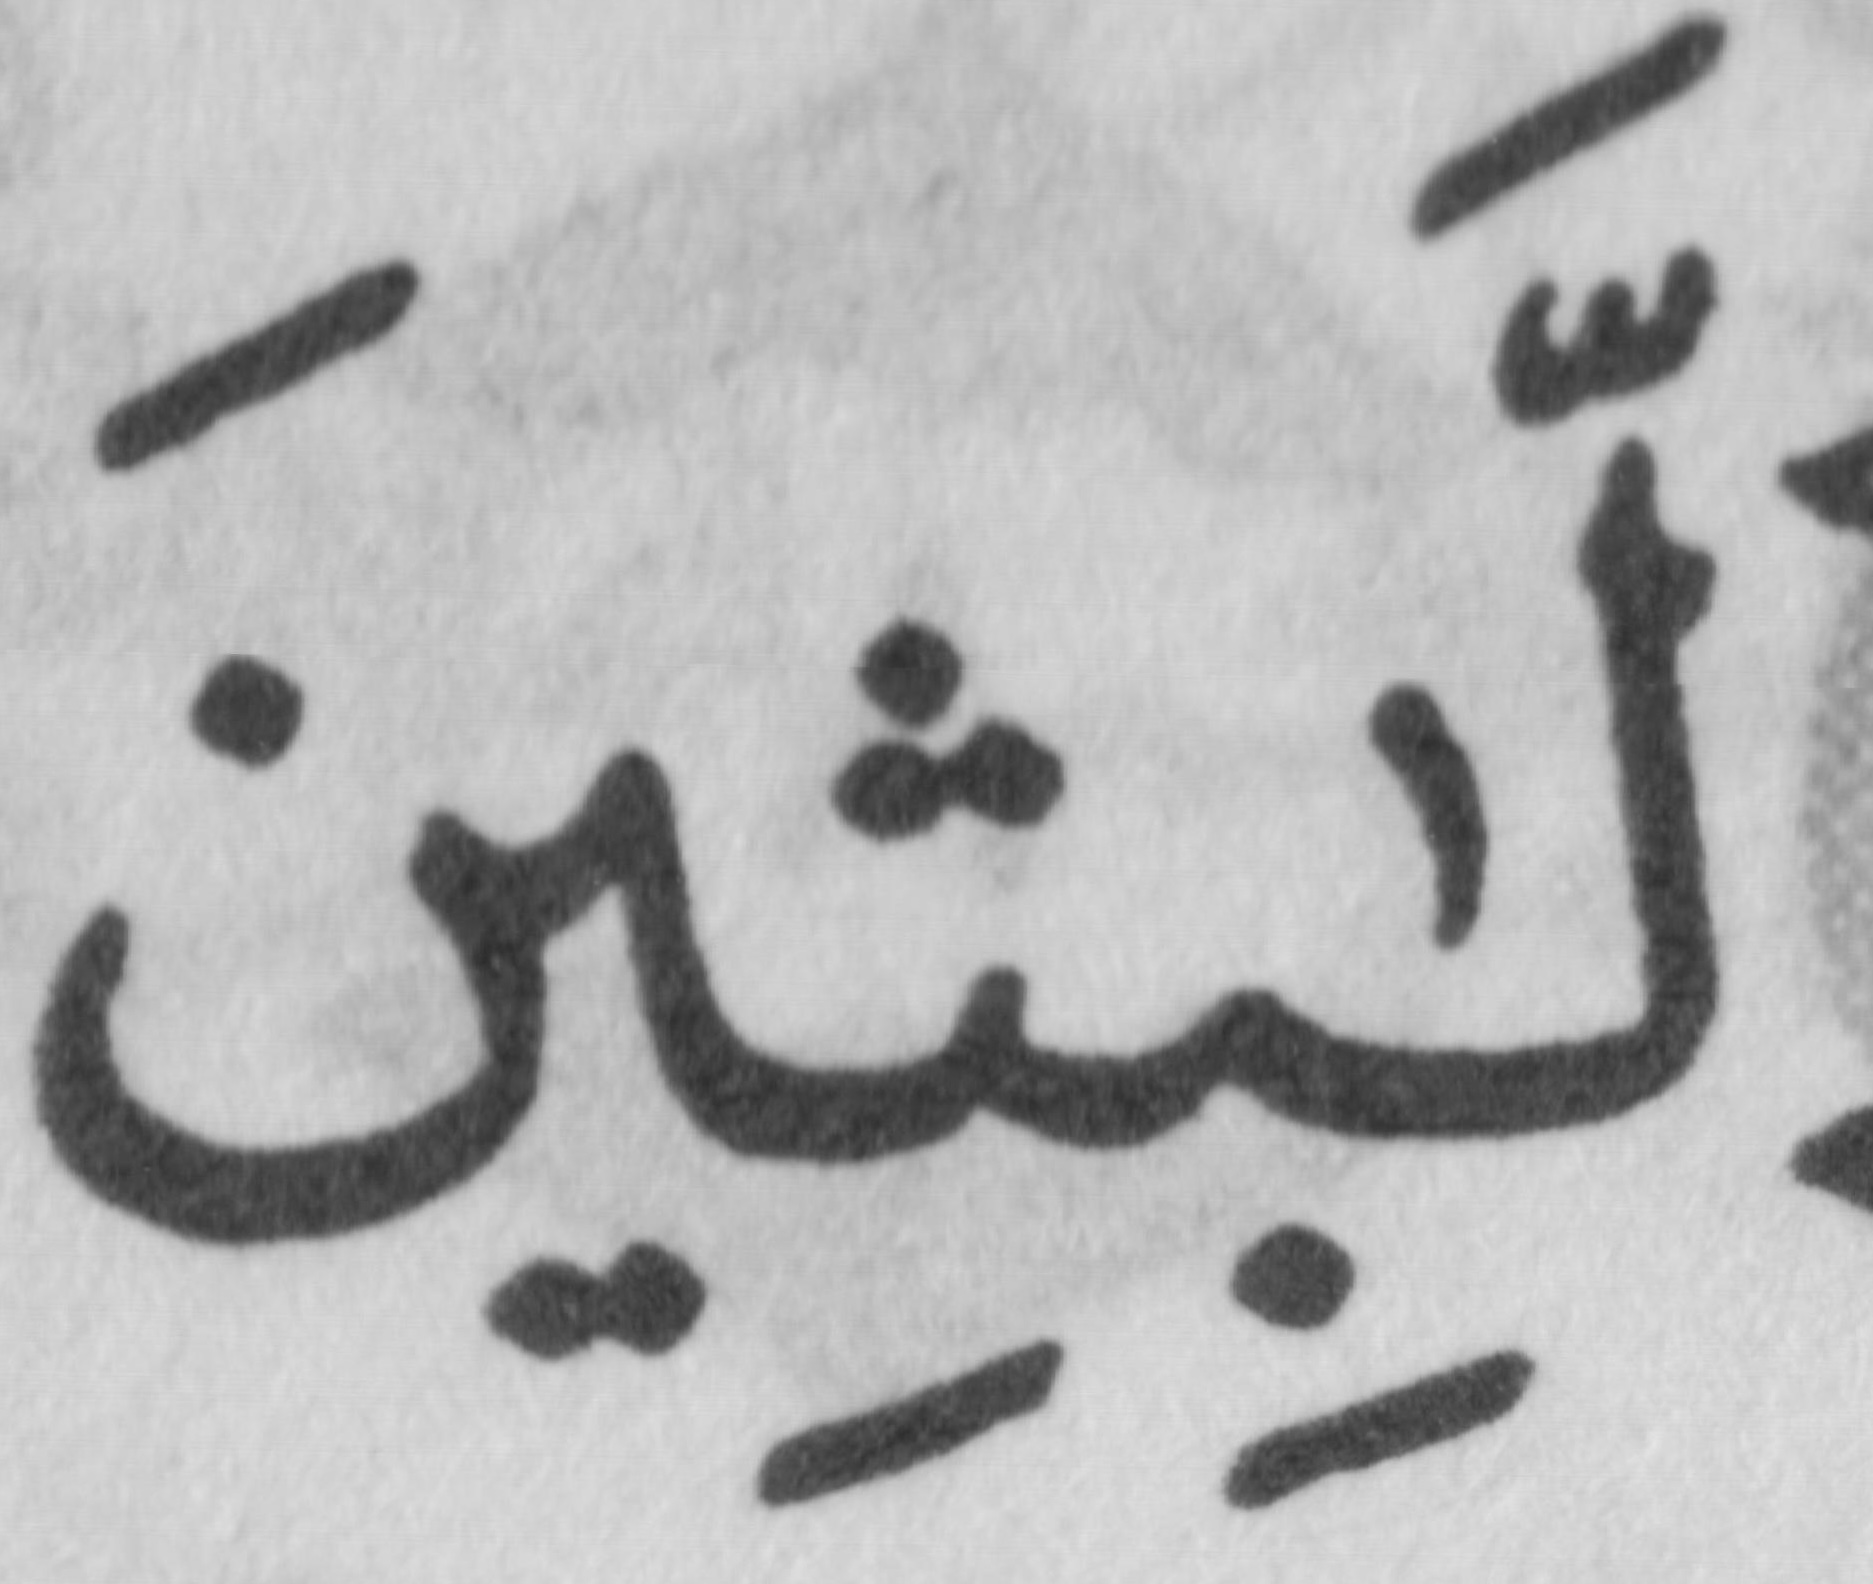
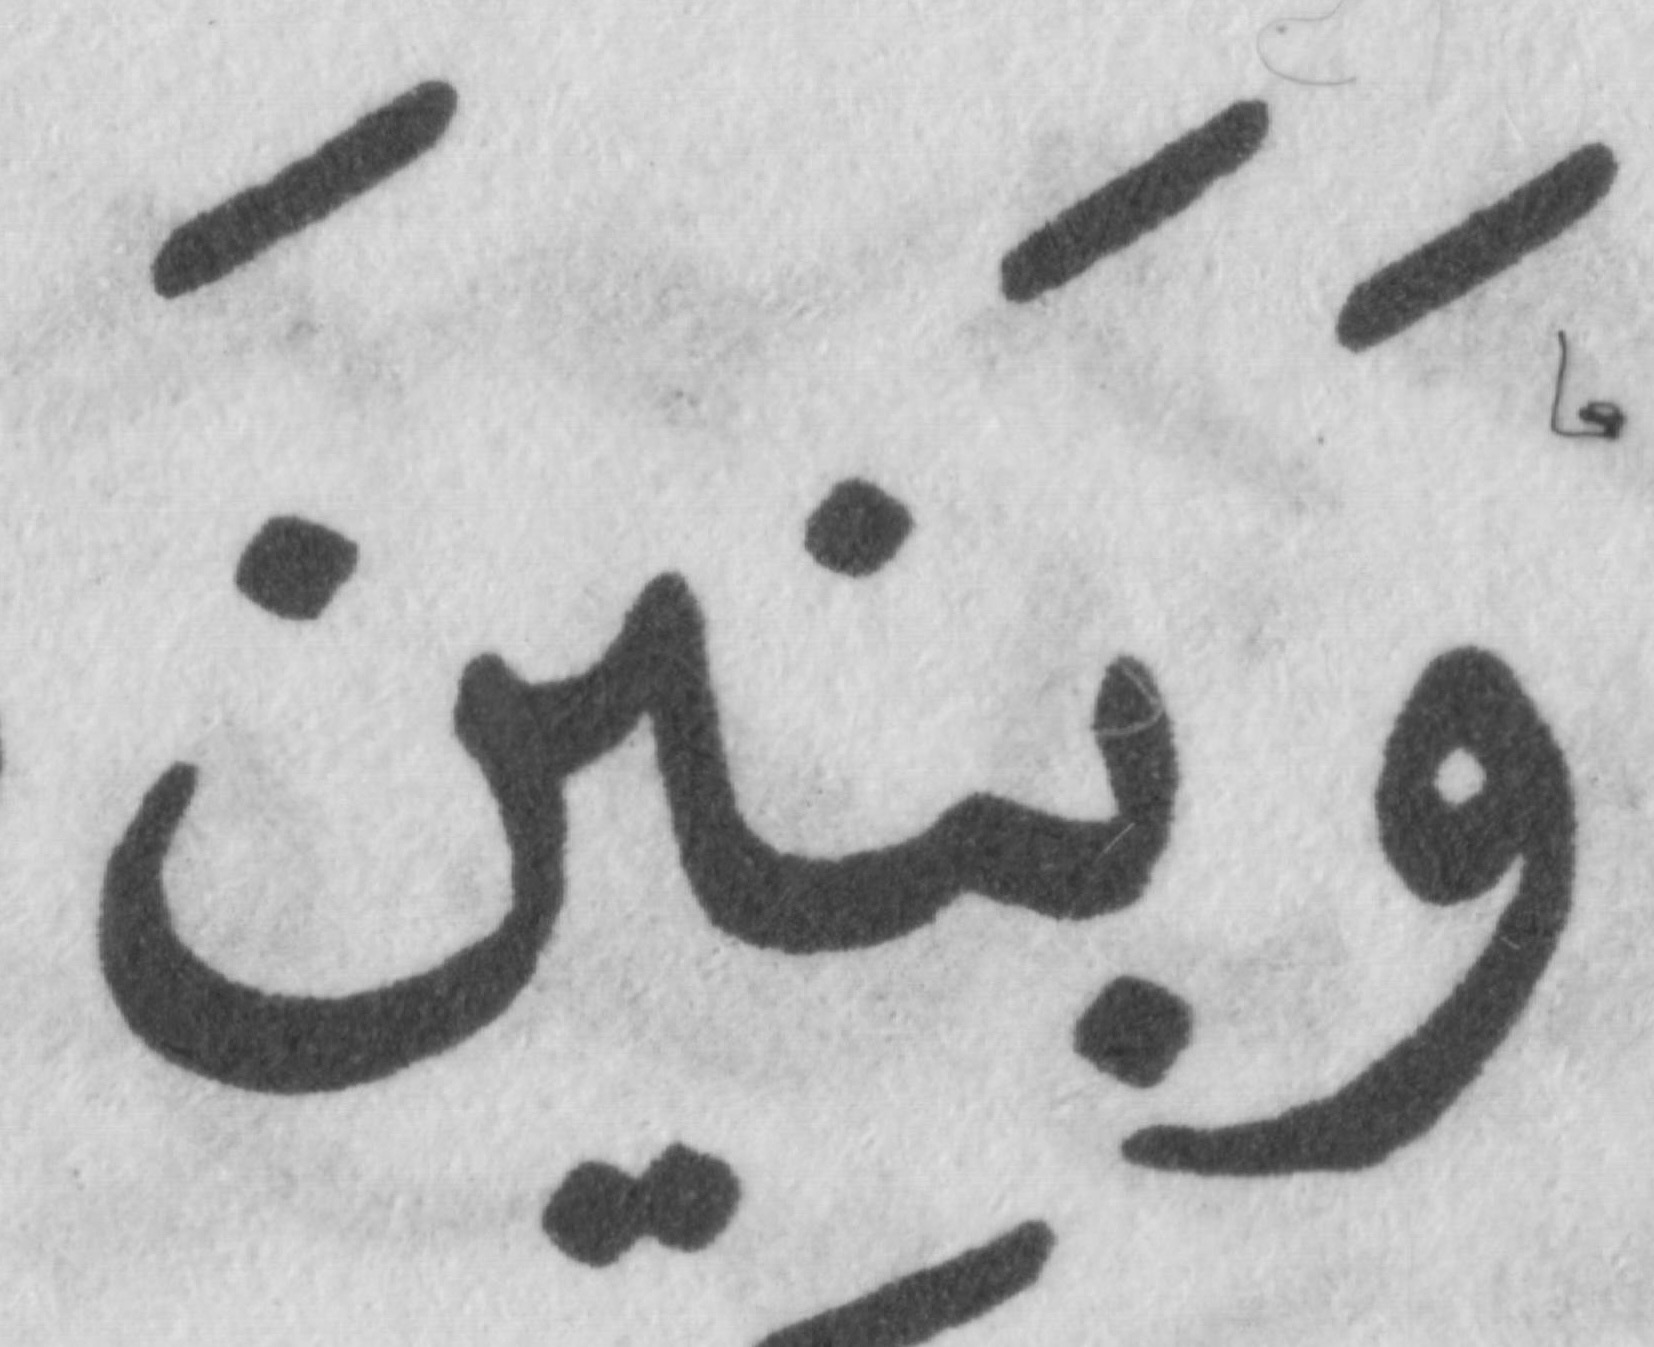
Fix bugs

diff --git a/oldmadina.cpp b/oldmadina.cpp
@@ -415,7 +415,7 @@ OldMadina::OldMadina(OtLayout* layout, Font* font, bool extended) :Automedina{ l
   layout->expandableGlyphs["sad.init"] = { 20,-0.5,0,0 };
   layout->expandableGlyphs["tah.init"] = { 20,0,0,0 };
   layout->expandableGlyphs["ain.init"] = { 20,-0.7,0,0 };
-  layout->expandableGlyphs["fehshape.init"] = { 20,-1,0,0 };
+  layout->expandableGlyphs["fehshape.init"] = { 20,-0.5,0,0 };
   layout->expandableGlyphs["kaf.init"] = { 20,-0.5,0,0 };
   layout->expandableGlyphs["kaf.init.ii"] = { 20,-1.5,6,-1 };
   layout->expandableGlyphs["kaf.init.iii"] = { 20,-0.5,0,0 };    
@@ -431,7 +431,7 @@ OldMadina::OldMadina(OtLayout* layout, Font* font, bool extended) :Automedina{ l
   layout->expandableGlyphs["behshape.medi.afterbeh"] = { 20,-0.5,0,0 };
   layout->expandableGlyphs["behshape.medi.beforeseen"] = { 20,0,20,0 };
   layout->expandableGlyphs["behshape.medi.beforereh"] = { 20,-0.3,20,-0.3 };
-  layout->expandableGlyphs["behshape.medi.beforenoon"] = { 20,-0.5,20,-0.5 };
+  layout->expandableGlyphs["behshape.medi.beforenoon"] = { 20,-0.4,20,-0.4 };
   layout->expandableGlyphs["behshape.medi.beforeyeh"] = { 0,0,20,-1 };
 
 
@@ -486,7 +486,7 @@ OldMadina::OldMadina(OtLayout* layout, Font* font, bool extended) :Automedina{ l
   layout->expandableGlyphs["lam.fina"] = { 0.0,0.0,20,-0.5 };
   layout->expandableGlyphs["kaf.fina"] = { 0.0,0.0,20,-0.3 };
   layout->expandableGlyphs["noon.fina"] = { 0.0,0.0,20,-0.1 };
-  layout->expandableGlyphs["noon.fina.basmala"] = { 20,0.0,0,-0.5 };
+  layout->expandableGlyphs["noon.fina.basmala"] = { 20,0.0,0,0 };
   layout->expandableGlyphs["reh.fina"] = { 0.0,0.0,20,0 };
   layout->expandableGlyphs["ain.fina"] = { 0.0,0.0,20,-0.3 };
 
@@ -610,7 +610,7 @@ Lookup* OldMadina::rehwawcursivecpp() {
   lookup->type = Lookup::cursive;
   lookup->flags = Lookup::Flags::IgnoreMarks; // | Lookup::Flags::RightToLeft;
 
-  int kern = 150;
+  int kern = 100;
 
   class CustomCursiveSubtable : public CursiveSubtable {
   public:
@@ -684,6 +684,27 @@ Lookup* OldMadina::rehwawcursivecpp() {
     rehfinaafterbehshape->anchors[glyphcode].entry = QPoint(glyph.width, 0);
     rehfinaafterseen->anchors[glyphcode].entry = QPoint(glyph.width, 0);
 
+  }
+
+  // See bug https://github.com/DigitalKhatt/madinafont/issues/21
+  if(toMacOS){
+    for (auto it = entryAnchorsRTL.constBegin(); it != entryAnchorsRTL.constEnd(); ++it) {
+      QString cursiveName = it.key();
+      auto entries = it.value();
+      auto exits = exitAnchorsRTL[cursiveName];
+
+      CursiveSubtable* newsubtable = new CursiveSubtable(lookup);
+      lookup->subtables.append(newsubtable);
+      newsubtable->name = cursiveName;
+
+      for (auto anchor = entries.constBegin(); anchor != entries.constEnd(); ++anchor) {
+        newsubtable->anchors[anchor.key()].entry = anchor.value();
+      }
+
+      for (auto anchor = exits.constBegin(); anchor != exits.constEnd(); ++anchor) {
+        newsubtable->anchors[anchor.key()].exit = anchor.value();
+      }
+    }
   }
 
   return lookup;
@@ -2699,7 +2720,7 @@ Lookup* OldMadina::glyphalternates() {
   alternate->feature = alternate->name;
   alternate->type = Lookup::alternate;
 
-  m_layout->addLookup(alternate);
+  //m_layout->addLookup(alternate);
 
   alternateSubtable = new AlternateSubtableWithTatweel(alternate);
   alternate->subtables.append(alternateSubtable);
@@ -2740,6 +2761,6 @@ Lookup* OldMadina::glyphalternates() {
 
   }
 
-  return nullptr;
+  return alternate;
 
 }

diff --git a/oldmadina.h b/oldmadina.h
@@ -36,5 +36,6 @@ private:
   Lookup* shrinkstretchlt();
   void addchars();
   void generateGlyphs();
+  bool toMacOS = false;
 };
 
